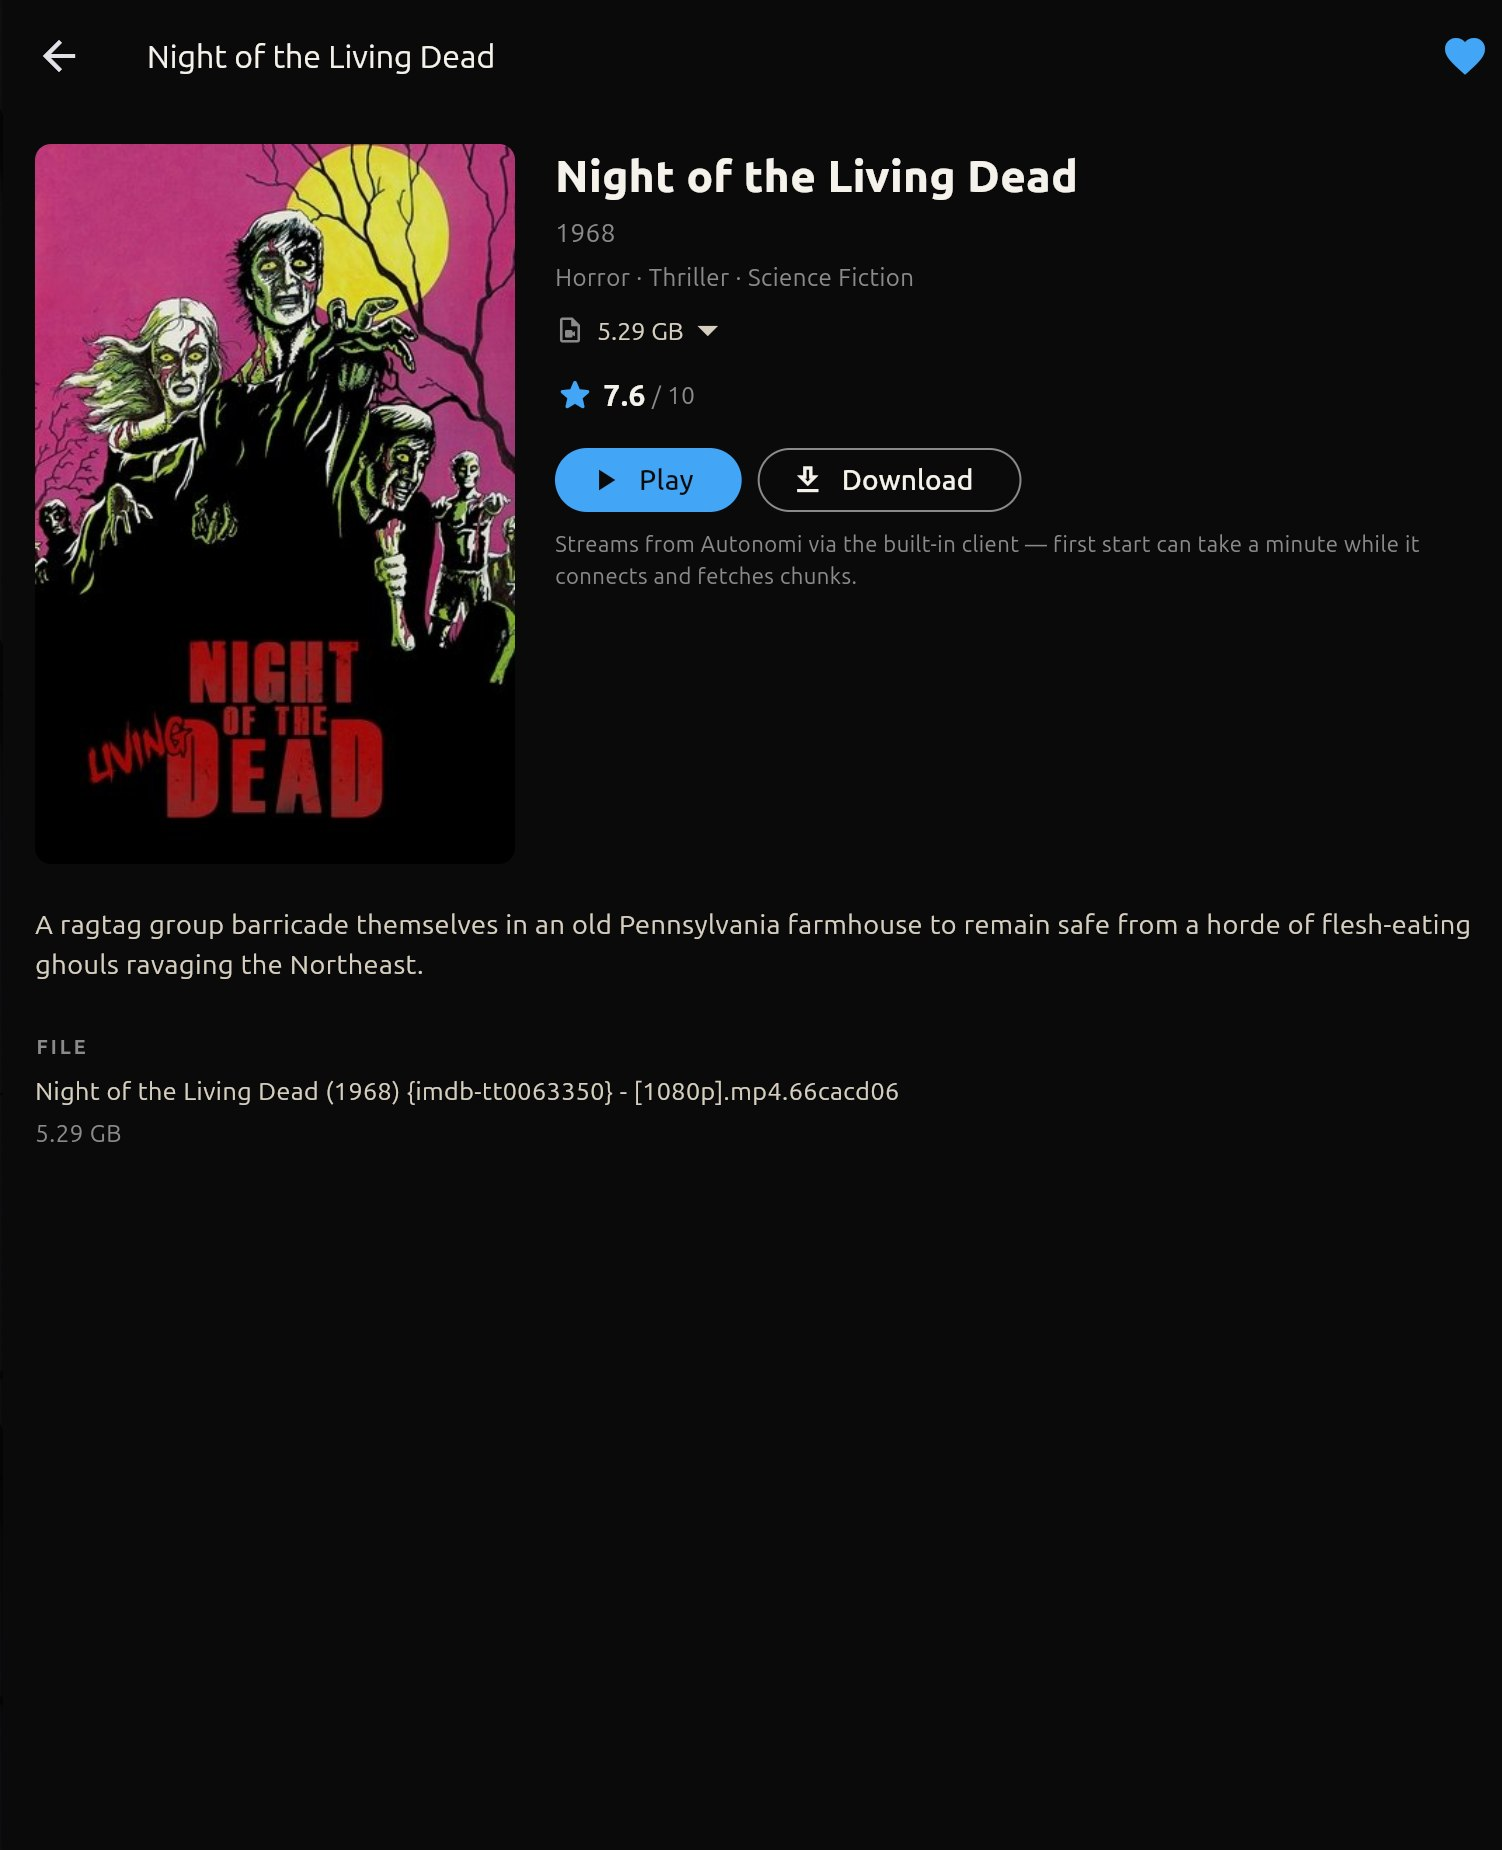
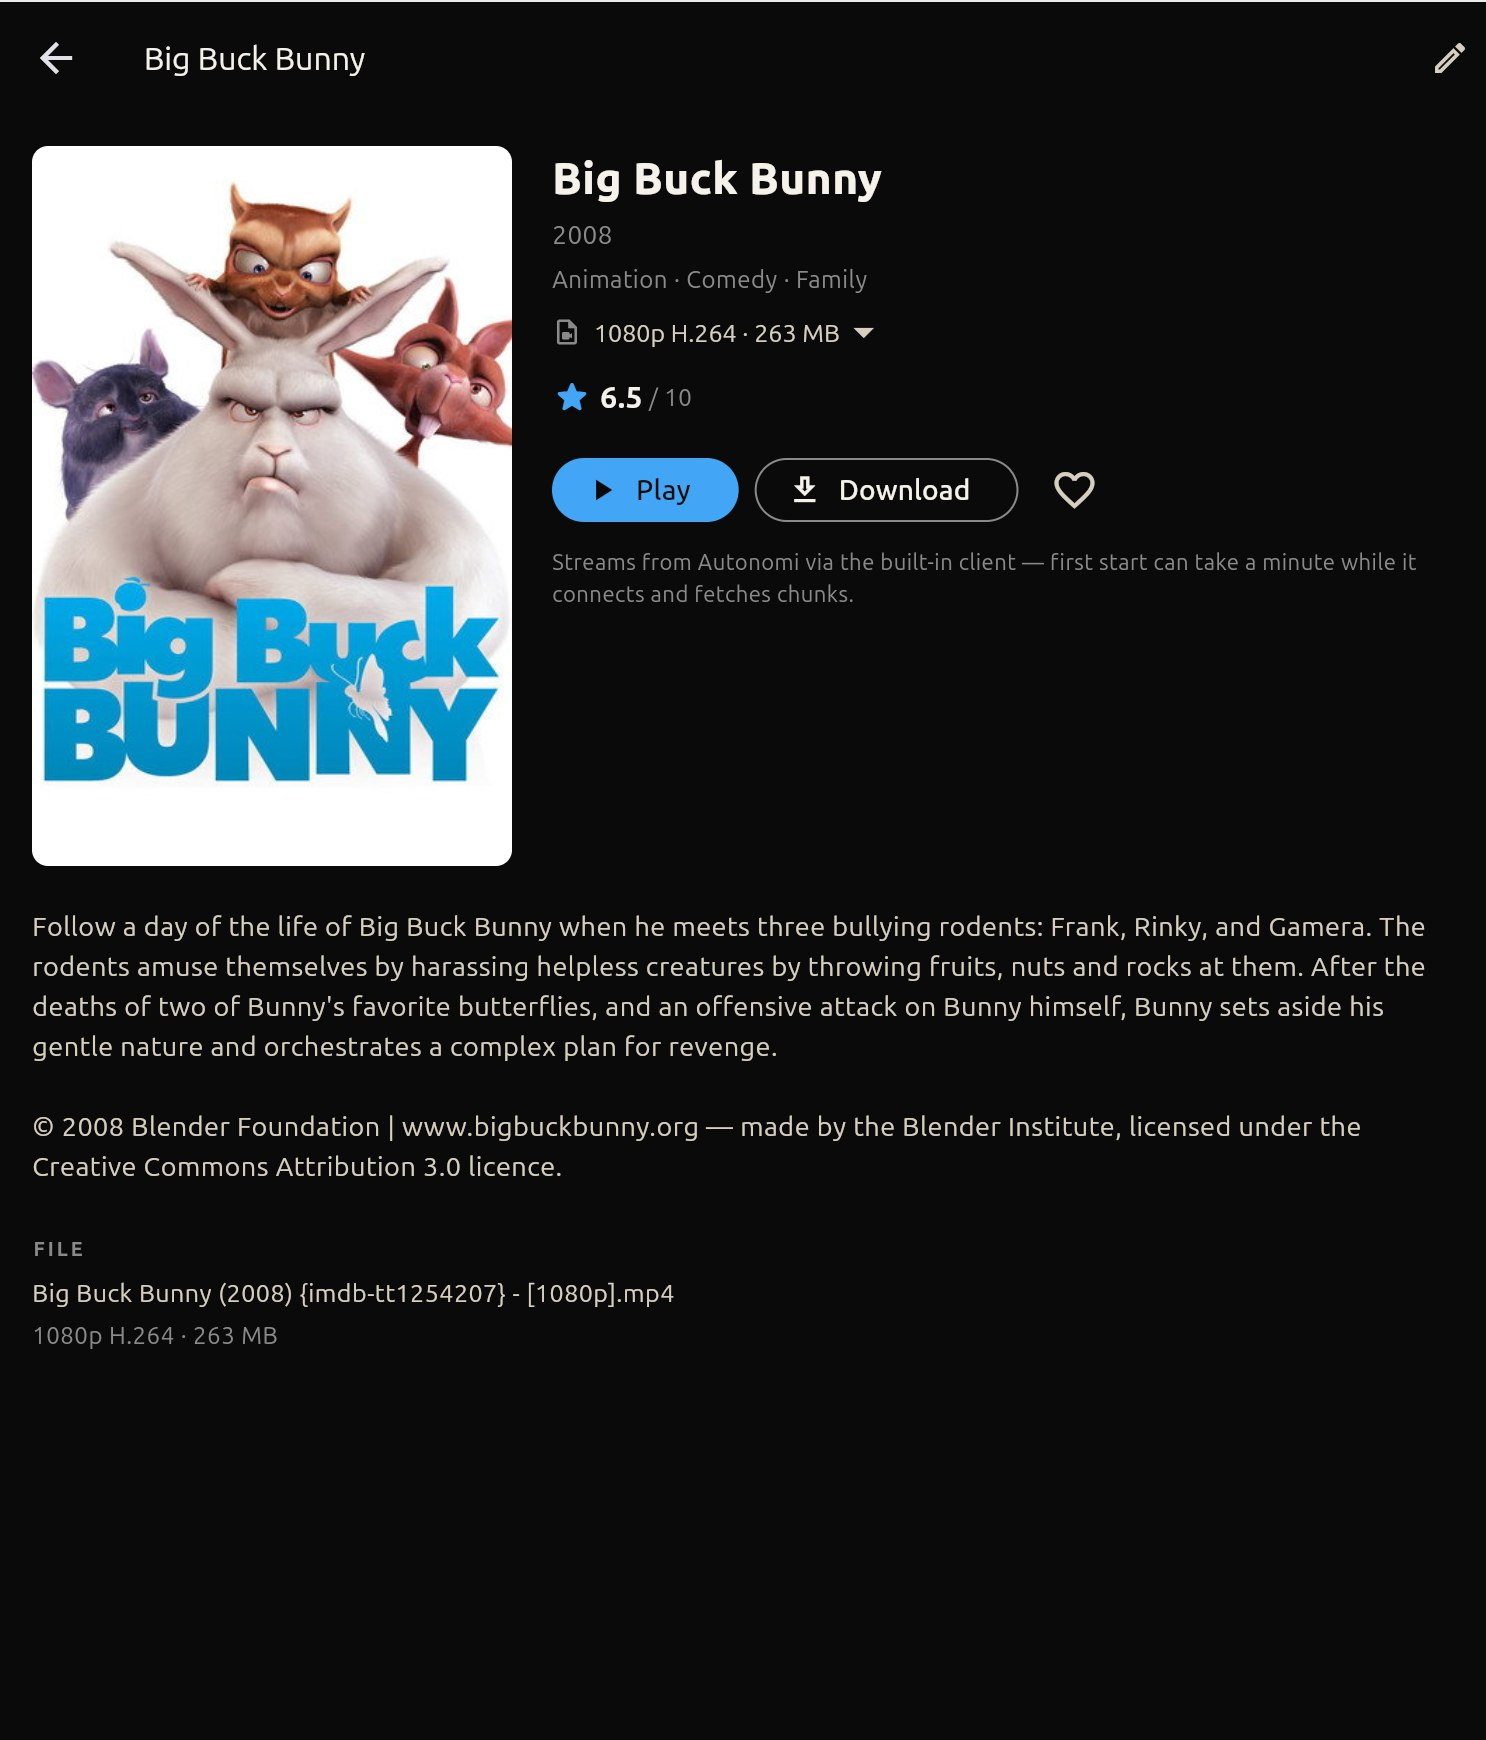
Docs: replace README detail screenshot with Big Buck Bunny
detail-linux.jpg now shows the alpha.93+ Big Buck Bunny detail page
(the current seed title) instead of the NOTLD-era shot; alt text and
caption updated to match.

diff --git a/CLAUDE.md b/CLAUDE.md
@@ -62,6 +62,7 @@ v0.1.0-alpha.64 "UPLOAD" RELEASED (2026-08-27, AppImage + Windows zip + APK; tag
 - Repo: github.com/aautonomicc/Watch-It — LICENSING (2026-08-03): own source MIT (LICENSE), but binaries statically link self_encryption 0.36.0 (GPL-3.0) so every released APK/AppImage is a combined work offered under GPLv3 (COPYING.GPL-3.0 at repo root, README ## License). In-app notice: Settings → About → Open-source licenses (showLicensePage) + services/licenses.dart registerNativeLicenses() (called in main()) registering W@tch MIT+GPLv3 note, self_encryption GPL full text (asset assets/licenses/gpl-3.0.txt), watchit_core Rust crate list, libmpv/FFmpeg notice, Anton OFL
 
 ## Recent Changes
+- [2026-09-09] README SCREENSHOT: detail-linux.jpg replaced with the Big Buck Bunny detail page (docs-only, user-supplied capture from alpha.93+; 1486x1740 progressive JPEG, replaces the NOTLD-era shot). README alt text + caption updated (versions now "1080p, 720p or 480p"). home-linux.jpg still shows the NOTLD-era library — retake when convenient.
 - [2026-09-09] v0.1.0-alpha.94 RELEASED (Latest: APK + AppImage + Windows zip + macOS dmg; tag on bump commit 18d514e; published ~10:38Z): https://github.com/aautonomicc/Watch-It/releases/tag/v0.1.0-alpha.94 — ships f9f2760 (picker heading) + a760323 (pinned drawer), the only changes since alpha.93. Release session: local release_build.sh APK+AppImage (3 min warm, Dart-only), Windows tag CI 34338384745 green (zip artifact copied as-is, 57 files incl. ffmpeg.exe/ffprobe.exe/watchit_core.dll), macOS tag CI 34338384724 green (dmg koly-verified, 218MB), APK versionCode 94 cert 7911…0a69 identical, main CI green, clean-HOME Xvfb :78 smoke of the dist AppImage (Terms → I agree → home WITH the pinned drawer live in the shipped binary, connected · 5 peers, BBB wall; /tmp/claude-screenshot-wi94-smoke*.png), gh release create --latest w/ /tmp/wi94-notes.md, releases/latest confirmed.
 - [2026-09-09] DESKTOP HOME: PINNED LIBRARY DRAWER + FAR-LEFT BURGER (released in alpha.94 — implements the 2026-09-09 desktop-drawer discussion's recommendation): on desktop, home windows ≥ `kPinnedDrawerMinWindowWidth` (1000 logical px, library_drawer.dart) keep the library drawer PINNED OPEN as a 290px side panel (`kPinnedDrawerWidth`) left of the wall — burger moves to the FAR LEFT of the app bar toggling it (tooltips "Hide/Show library panel", persisted in pref `drawer_pinned_v1` default true via AppSettings.drawerPinned), search icon moves into the actions. Gated on WINDOW WIDTH not just platform: a squeezed desktop window (and mobile) falls back to the exact old modal layout (search leading, "Browse lists" burger far right, modal drawer) — and no modal drawer is mounted while pinnable, so the two surfaces never stack. WiLibraryDrawer gains `pinned`: renders as a plain fixed-width Material (no Drawer chrome/rounding) and SKIPS the navigator.pop() on list/Settings taps (there is no modal to close — popping would kill home). Freshness: `_drawerEpoch` bumps in home `_reload` (didPopNext/sync/channel revisions) and keys the pinned panel so it remounts with fresh lists/sections. List pages keep their modal drawer unchanged (scope = home only, per the ask). Tests 942 (+5 new test/pinned_drawer_test.dart: pinned layout w/ burger-left/search-right geometry, toggle + pref persistence, remembered-closed launch, panel navigation survives return, narrow-window fallback pins the old geometry; existing tests untouched — the 800px default test window sits below the threshold) + analyze clean. LIVE Xvfb :77 1300x900 fresh-HOME verify: launch pins the panel (status rows + Library + Movies·3 + Settings) beside the BBB wall w/ burger far left + search far right, burger click collapses to full-width wall, second click re-pins, pref true on disk after (/tmp/claude-screenshot-wi94-1…3-*.png). Released in alpha.94.
 - [2026-09-09] PROFILE PICKER HEADING → "Who's w@tching?" IN THE WORDMARK TREATMENT (released in alpha.94 — implements the same-day recommendation + approved HTML render): ProfilePickerScreen's heading swaps the 20px w700 system-font "Who's watching?" for Text.rich in BrandWordmark's exact styling — Anton 26px, bone, letterSpacing 0.5, the @ in `t.accent` blue (the one sanctioned Anton use outside the wordmark, noted in-code). Settings "Back to…" subtitle + auto-login "Skip…" helper copy renamed to match. Tests: profiles_flow_test matchers repointed + a style pin (Anton family + accent-colored @ span). LIVE Xvfb verify: picker renders the heading exactly like the approved mock (/tmp/claude-screenshot-wi94-4-picker.png). Released in alpha.94.

diff --git a/README.md b/README.md
@@ -35,12 +35,12 @@ Want this exact library? It's a one-file download:
 films and episodes, posters and descriptions included, ready to import.
 
 <p>
-  <img src="docs/screenshots/detail-linux.jpg" width="49%" alt="Night of the Living Dead detail page in W@tch — poster, rating, version picker, Play and Download buttons, favourite heart" />
+  <img src="docs/screenshots/detail-linux.jpg" width="49%" alt="Big Buck Bunny detail page in W@tch — poster, rating, version picker, Play and Download buttons, favourite heart" />
   <img src="docs/screenshots/season-linux.jpg" width="49%" alt="One Step Beyond Season 1 in W@tch — season poster, rating, Download season button, and the episode list with stills and descriptions" />
 </p>
 
-*Left — a film's detail page: pick between uploads of the same film (here 480p
-or 1080p), stream it with Play, save it for offline with Download, or heart it
+*Left — a film's detail page: pick between uploads of the same film (here 1080p,
+720p or 480p), stream it with Play, save it for offline with Download, or heart it
 into the Favourites row. Right — a season page: every episode with stills, air
 dates and descriptions, plus a one-tap Download season.*
 
